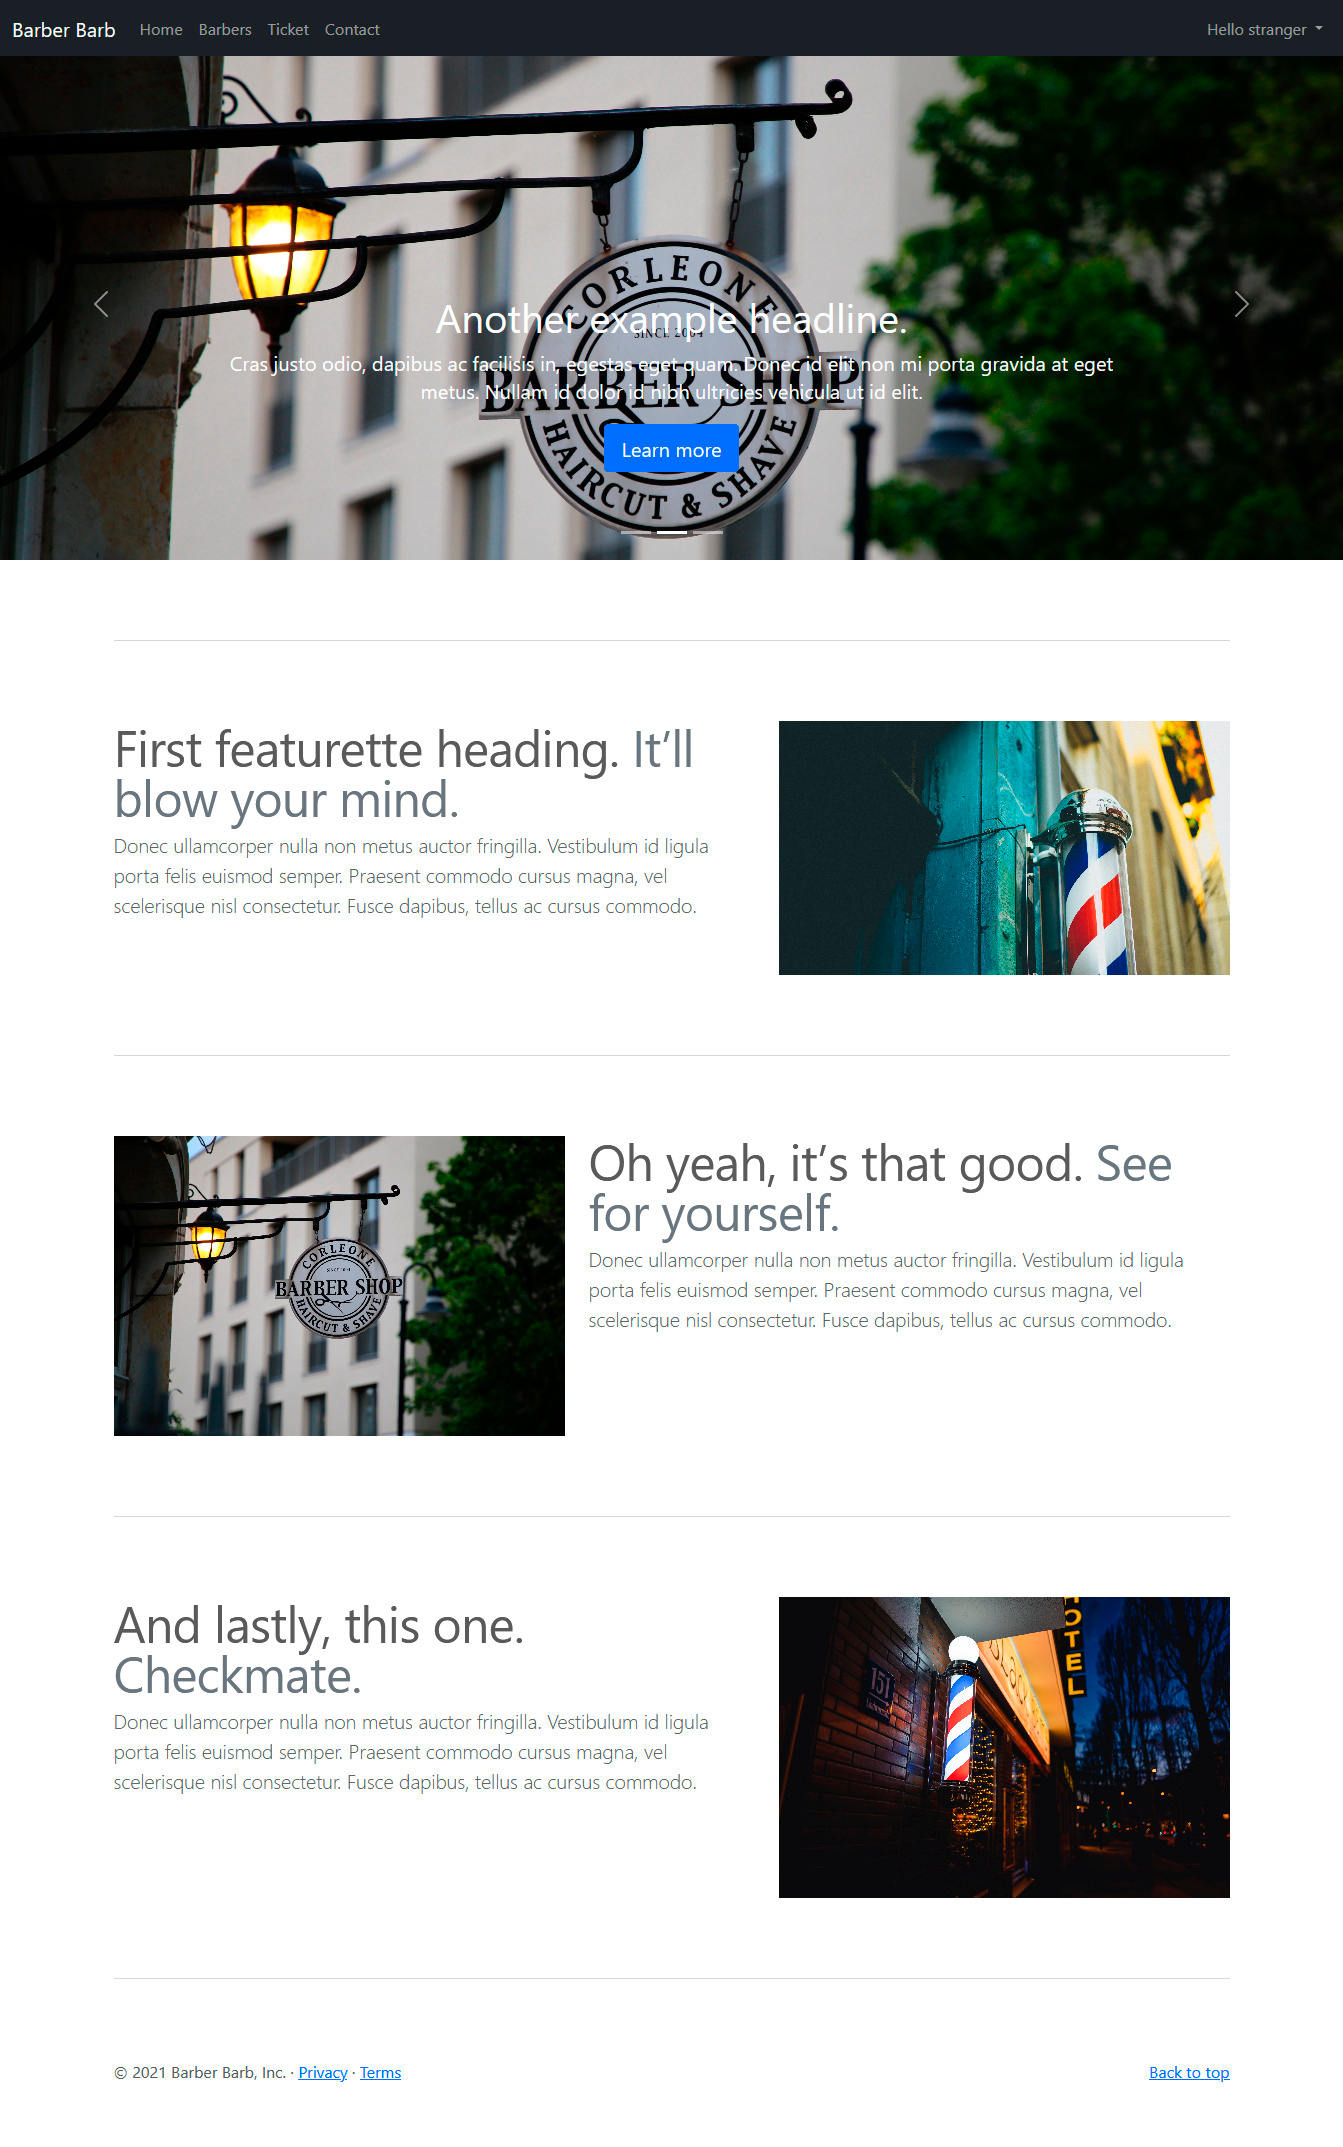
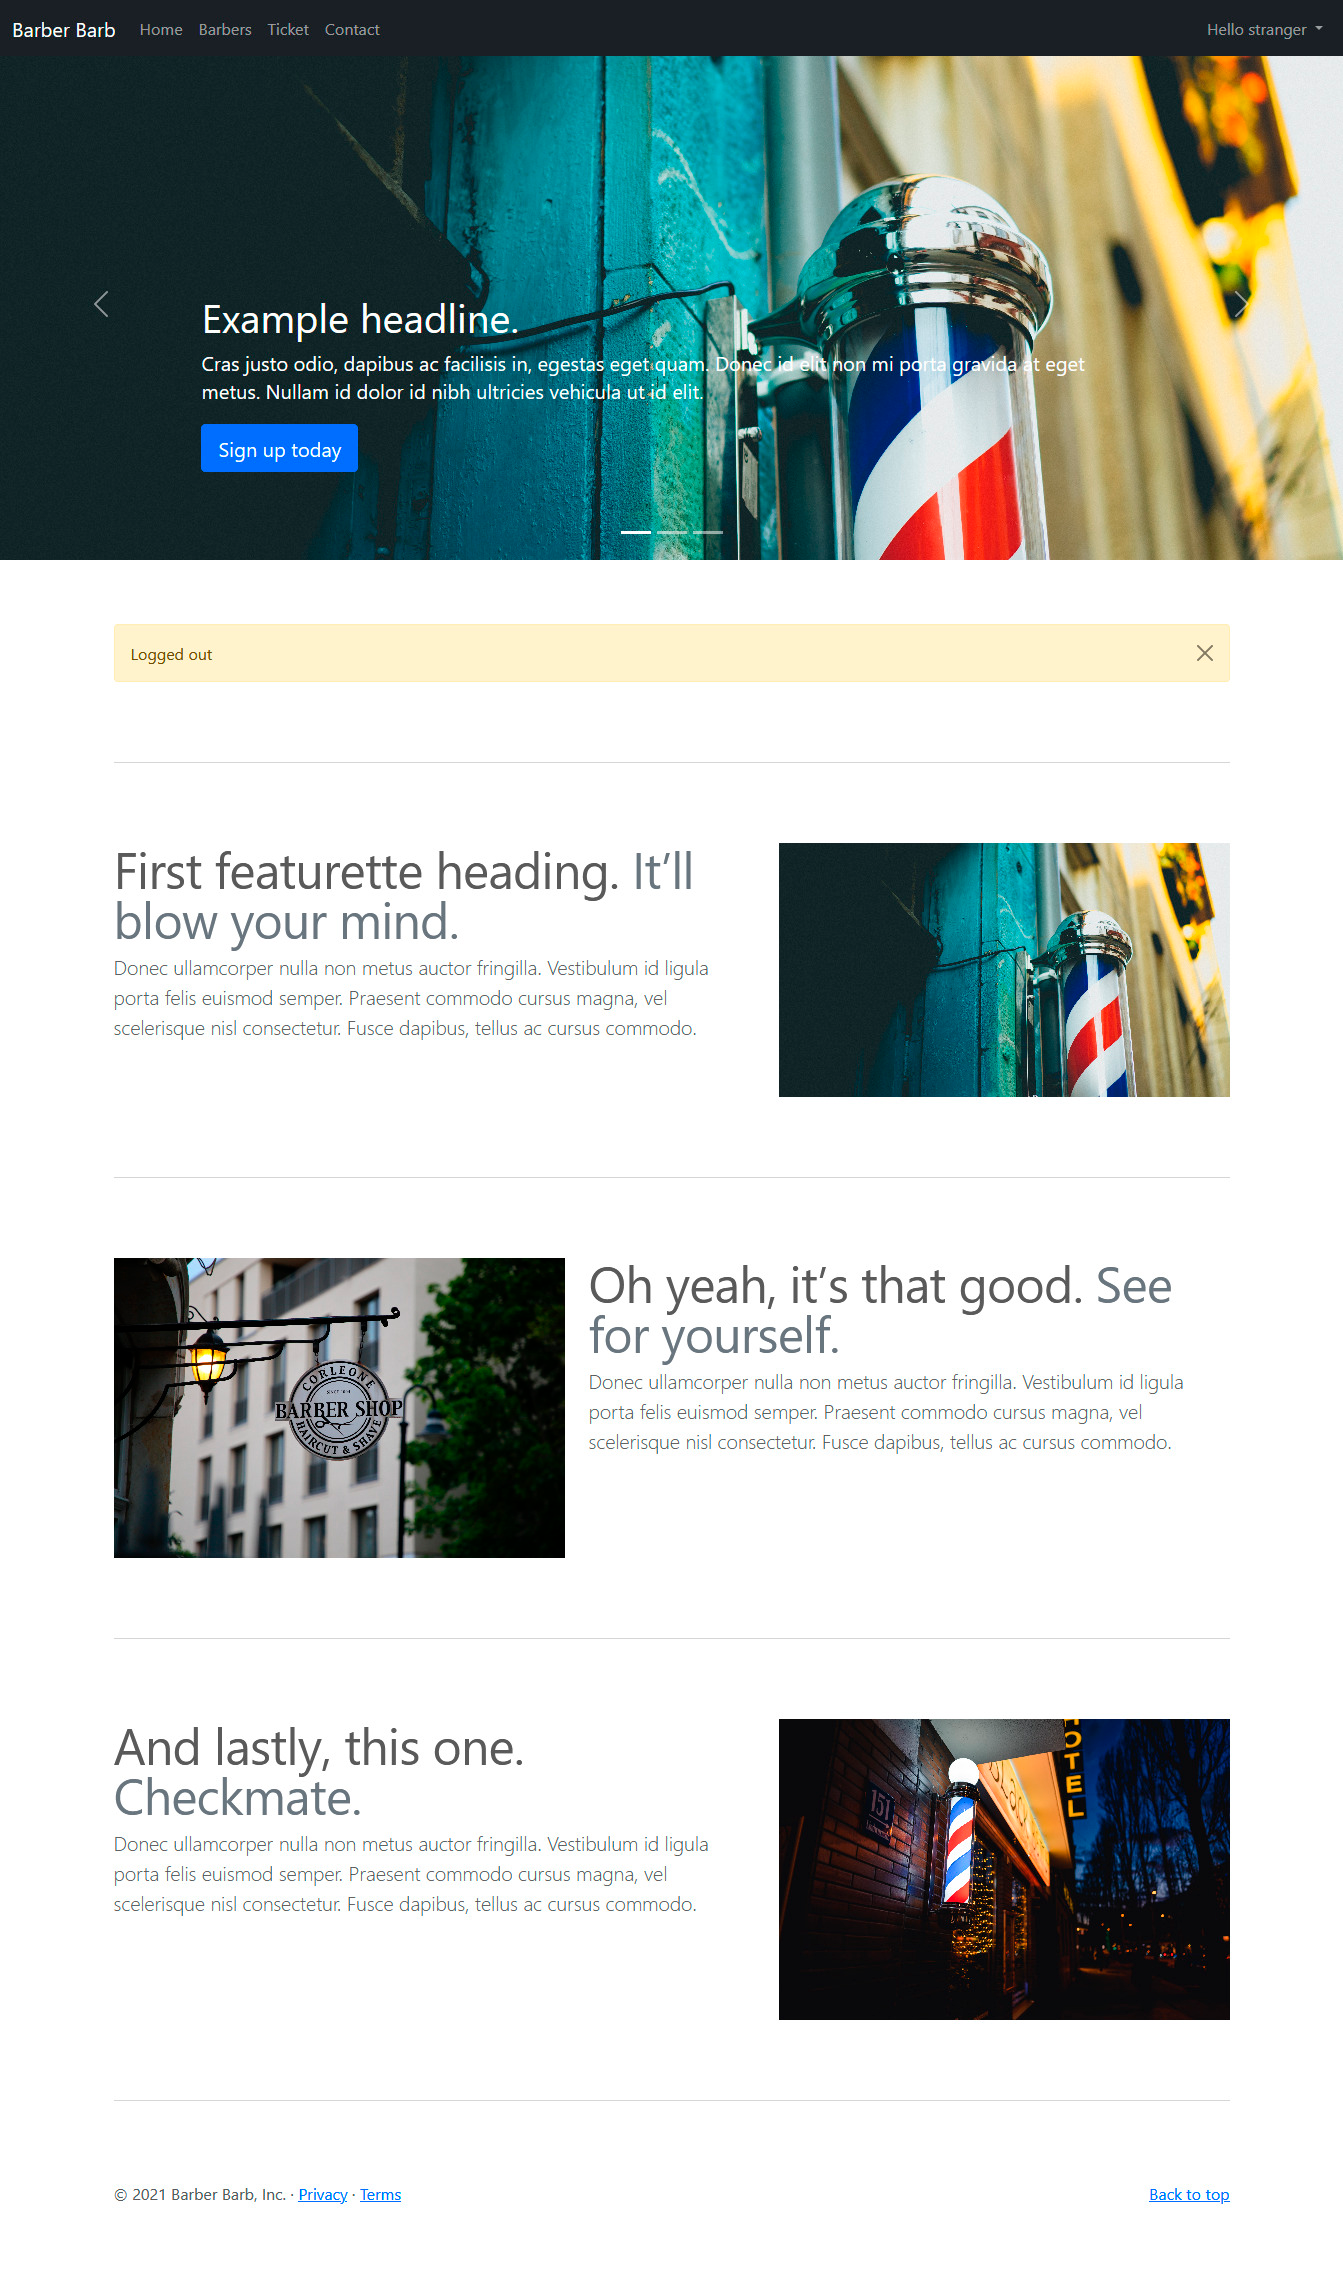
Update screenshots

diff --git a/app.rb b/app.rb
@@ -37,7 +37,7 @@ before '/secure/*' do
     session[:previous_url] = request.path
     @message = 'Sorry, you need to be logged in to visit ' + request.path
 
-    erb :login, :layout => false
+    halt erb(:login, :layout => false)
   end
 end
 
